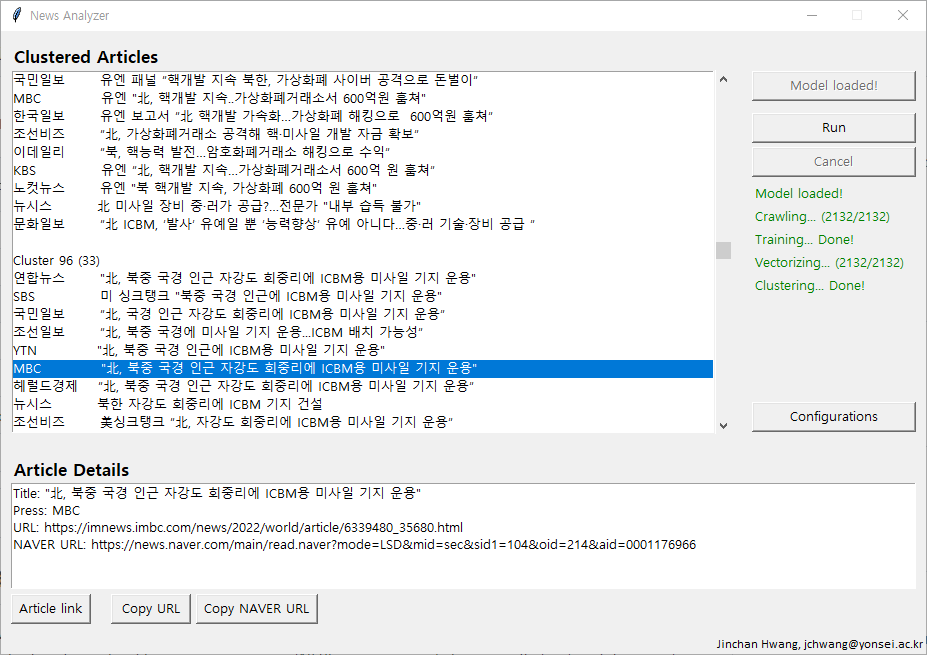
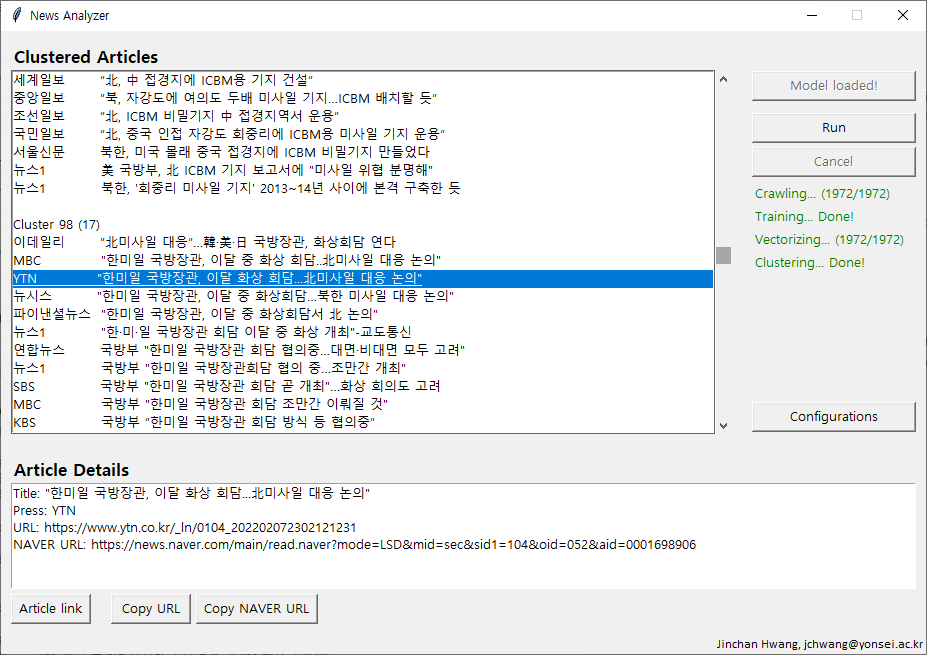
Fix UI bug

diff --git a/src/controller/main_controller.py b/src/controller/main_controller.py
@@ -39,6 +39,10 @@ class MainController:
             run_label.destroy()
         self.button_view.run_labels = []
 
+        self.article_view.article_details.delete("1.0", tk.END)
+        self.article_view.disable_buttons()
+        self.cluster_view.cluster_listbox.delete(0, tk.END)
+
         try:
             self.vectorizer.load_fasttext_model(self.config_controller.fasttext_path())
         except RuntimeError:
@@ -56,7 +60,6 @@ class MainController:
         self.button_view.buttons["load"]["text"] = "Model loaded!"
         self.button_view.buttons["run"]["state"] = tk.NORMAL
         self.button_view.buttons["config"]["state"] = tk.DISABLED
-        tk.Label(self.button_view, fg="green", text="Model loaded!").pack(anchor=tk.NW)
 
     def run(self, num_pages, stop_signal):
         """Run NewsAnalyzer.

diff --git a/src/view/config_view.py b/src/view/config_view.py
@@ -87,7 +87,10 @@ class ConfigView(tk.Toplevel):
 
         tk.Label(fasttext_frame, text="Trained model name").pack(anchor=tk.NW, padx=(10, 0))
         self.trained_model_entry = tk.Entry(
-            fasttext_frame, textvariable=self.configs["trained_model"], width=50
+            fasttext_frame,
+            state=tk.NORMAL if self.configs["train_enabled"].get() else tk.DISABLED,
+            textvariable=self.configs["trained_model"],
+            width=50
         )
         self.trained_model_entry.pack(anchor=tk.NW, padx=(10, 0))
 
